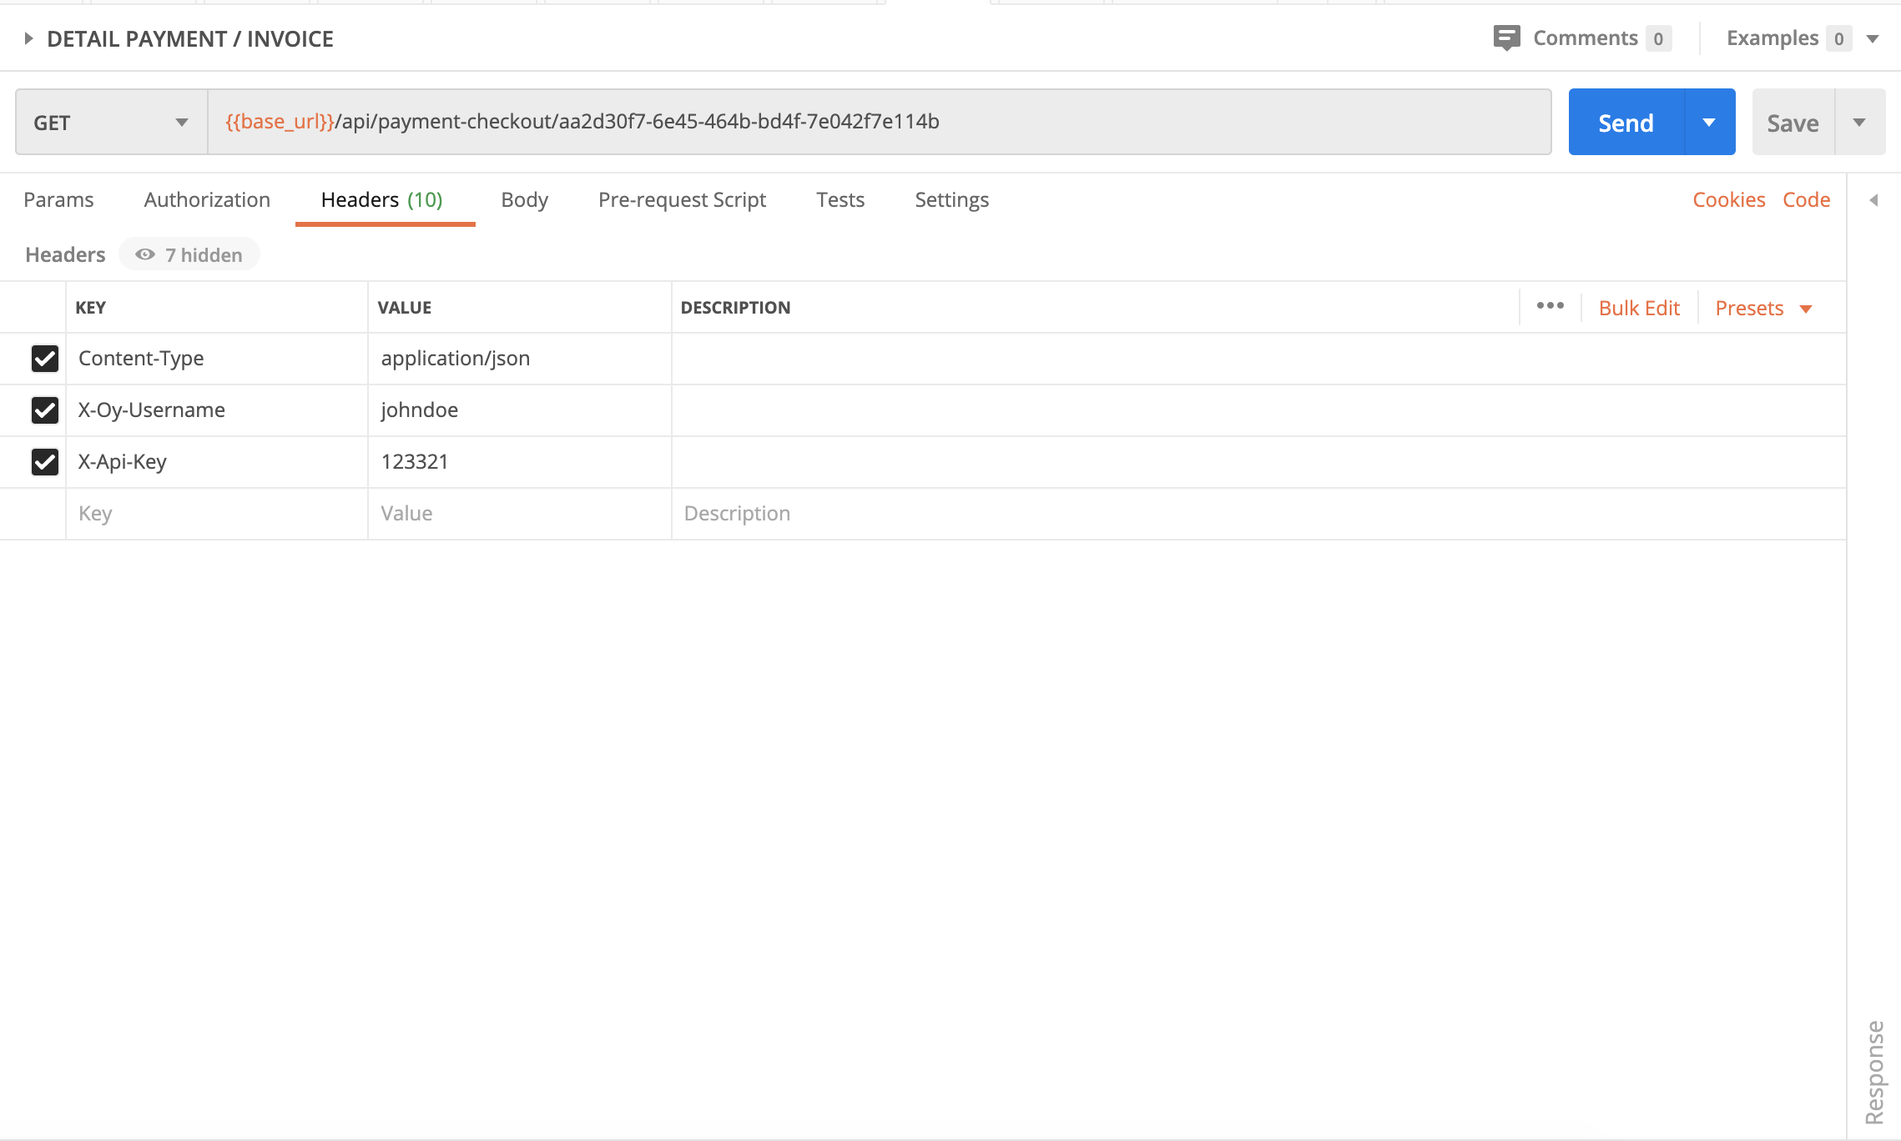
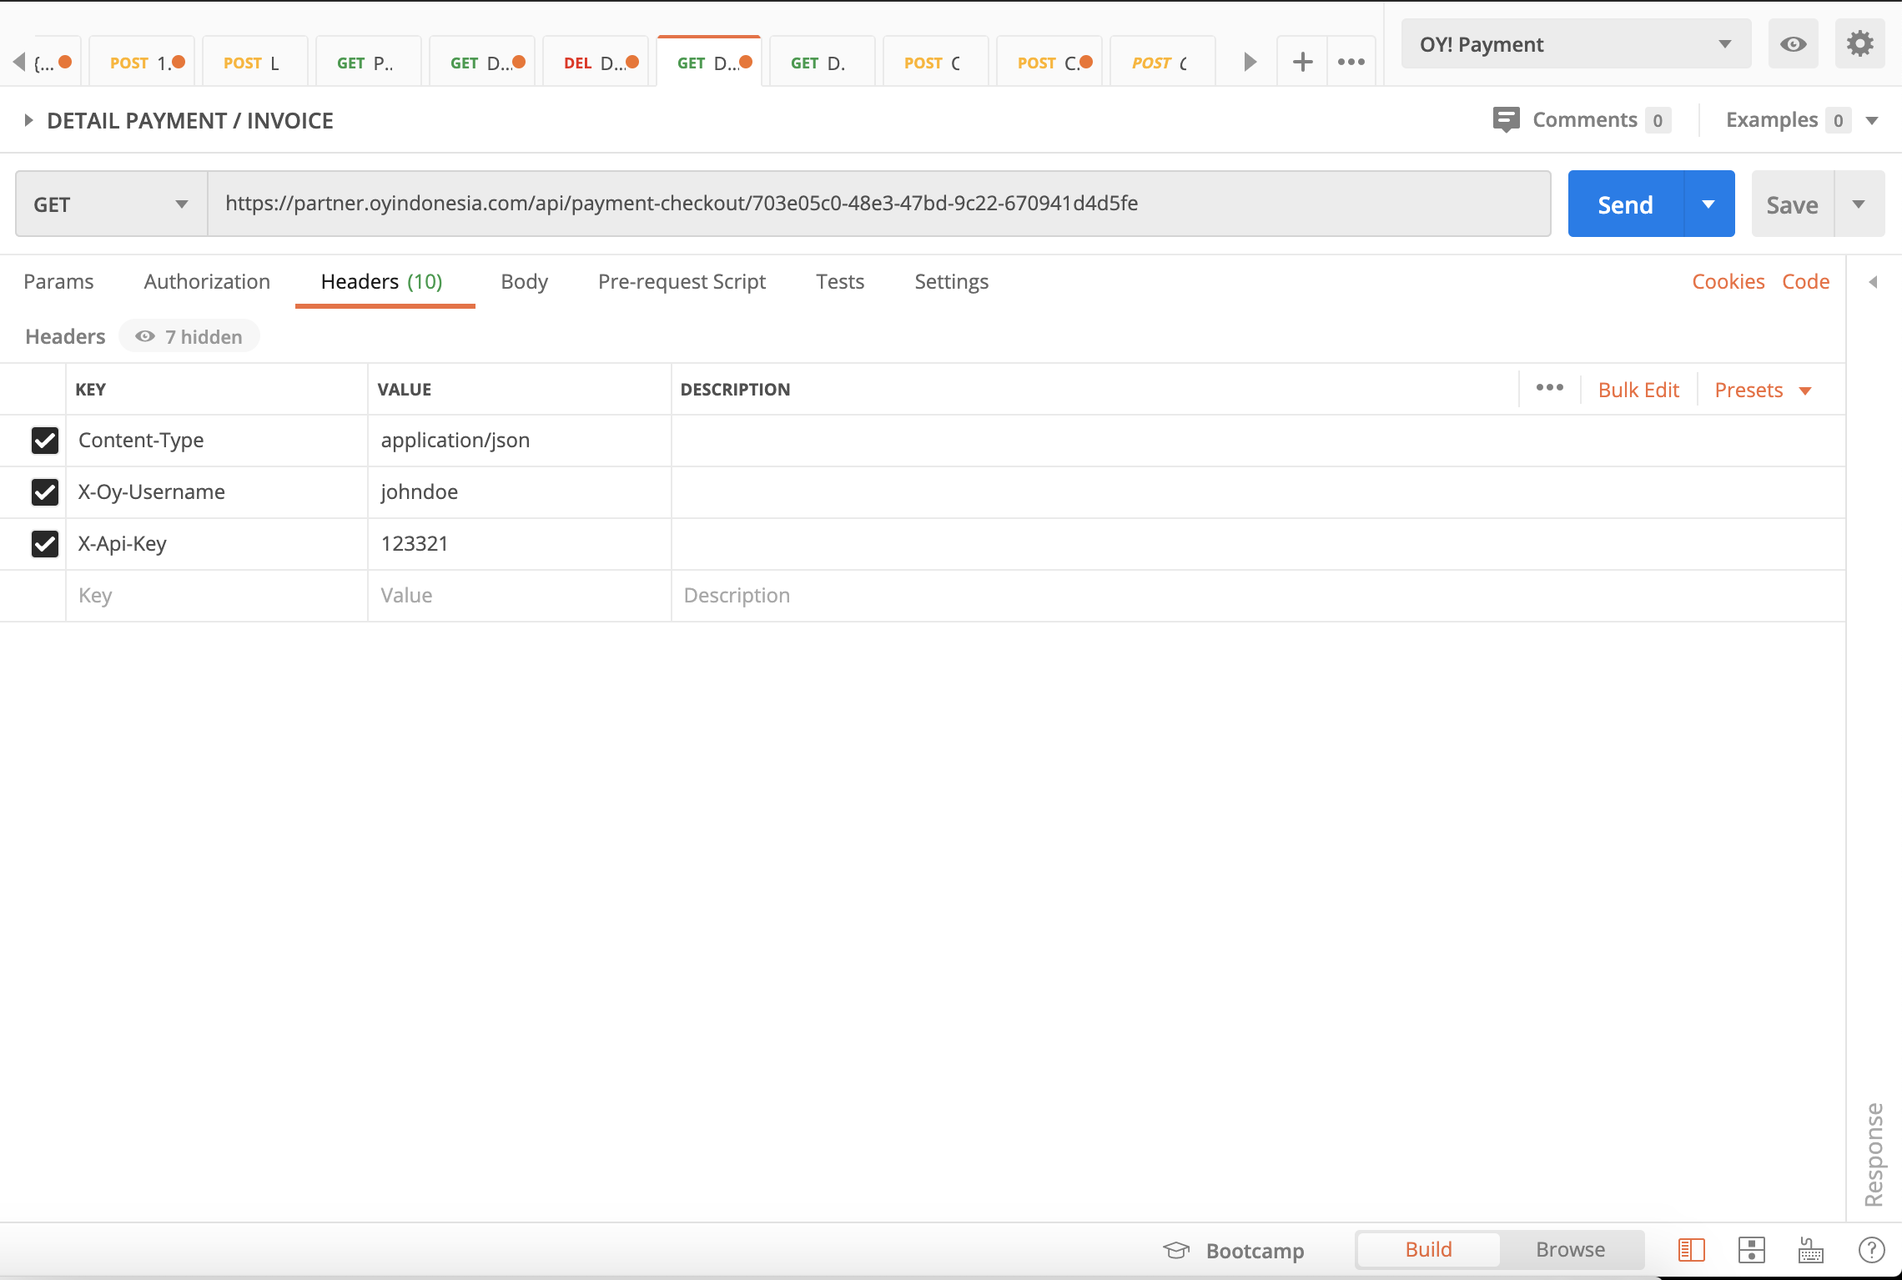
publish: Merge pull request #22 from oyindonesia/improvement/checkout-delete
generated from commit 489f5fceb19f34cfb2fa3a68a2bbd60b8c023e9b

diff --git a/index.html b/index.html
@@ -3859,26 +3859,34 @@ Use this API to get beneficiary account details.</p>
 </blockquote>
 <div class="highlight"><pre class="highlight json tab-json"><code><span class="p">{</span><span class="w">
     </span><span class="nl">"data"</span><span class="p">:</span><span class="w"> </span><span class="p">{</span><span class="w">
-        </span><span class="nl">"partnerTxId"</span><span class="p">:</span><span class="w"> </span><span class="s2">"partner tx id"</span><span class="p">,</span><span class="w">
-        </span><span class="nl">"paymentLinkId"</span><span class="p">:</span><span class="w"> </span><span class="s2">"35281815-4784-4f55-9a61-090f5c17a191"</span><span class="p">,</span><span class="w">
-        </span><span class="nl">"amount"</span><span class="p">:</span><span class="w"> </span><span class="mi">30000</span><span class="p">,</span><span class="w">
-        </span><span class="nl">"username"</span><span class="p">:</span><span class="w"> </span><span class="s2">"username"</span><span class="p">,</span><span class="w">
-        </span><span class="nl">"senderName"</span><span class="p">:</span><span class="w"> </span><span class="s2">"Sender Name"</span><span class="p">,</span><span class="w">
-        </span><span class="nl">"senderPhoneNumber"</span><span class="p">:</span><span class="w"> </span><span class="s2">"sender phone number"</span><span class="p">,</span><span class="w">
-        </span><span class="nl">"senderNotes"</span><span class="p">:</span><span class="w"> </span><span class="s2">"sender note"</span><span class="p">,</span><span class="w">
-        </span><span class="nl">"status"</span><span class="p">:</span><span class="w"> </span><span class="s2">"status"</span><span class="p">,</span><span class="w">
-        </span><span class="nl">"txRefNumber"</span><span class="p">:</span><span class="w"> </span><span class="s2">"tx_ref_number"</span><span class="p">,</span><span class="w">
-        </span><span class="nl">"description"</span><span class="p">:</span><span class="w"> </span><span class="s2">"description"</span><span class="p">,</span><span class="w">
+        </span><span class="nl">"partnerTxId"</span><span class="p">:</span><span class="w"> </span><span class="s2">"abc10"</span><span class="p">,</span><span class="w">
+        </span><span class="nl">"paymentLinkId"</span><span class="p">:</span><span class="w"> </span><span class="s2">"703e05c0-48e3-47bd-9c22-670941d4d5fe"</span><span class="p">,</span><span class="w">
+        </span><span class="nl">"amount"</span><span class="p">:</span><span class="w"> </span><span class="mi">15000</span><span class="p">,</span><span class="w">
+        </span><span class="nl">"username"</span><span class="p">:</span><span class="w"> </span><span class="s2">"justkhals"</span><span class="p">,</span><span class="w">
+        </span><span class="nl">"senderName"</span><span class="p">:</span><span class="w"> </span><span class="s2">"Jokowi"</span><span class="p">,</span><span class="w">
+        </span><span class="nl">"senderPhoneNumber"</span><span class="p">:</span><span class="w"> </span><span class="kc">null</span><span class="p">,</span><span class="w">
+        </span><span class="nl">"senderNotes"</span><span class="p">:</span><span class="w"> </span><span class="kc">null</span><span class="p">,</span><span class="w">
+        </span><span class="nl">"status"</span><span class="p">:</span><span class="w"> </span><span class="s2">"CREATED"</span><span class="p">,</span><span class="w">
+        </span><span class="nl">"txRefNumber"</span><span class="p">:</span><span class="w"> </span><span class="kc">null</span><span class="p">,</span><span class="w">
+        </span><span class="nl">"description"</span><span class="p">:</span><span class="w"> </span><span class="s2">"testdesc"</span><span class="p">,</span><span class="w">
         </span><span class="nl">"isOpen"</span><span class="p">:</span><span class="w"> </span><span class="kc">true</span><span class="p">,</span><span class="w">
-        </span><span class="nl">"step"</span><span class="p">:</span><span class="w"> </span><span class="s2">"step"</span><span class="p">,</span><span class="w">
-        </span><span class="nl">"notes"</span><span class="p">:</span><span class="w"> </span><span class="s2">"notes"</span><span class="p">,</span><span class="w">
-        </span><span class="nl">"phoneNumber"</span><span class="p">:</span><span class="w"> </span><span class="s2">"phone number"</span><span class="p">,</span><span class="w">
-        </span><span class="nl">"email"</span><span class="p">:</span><span class="w"> </span><span class="s2">"email"</span><span class="p">,</span><span class="w">
+        </span><span class="nl">"step"</span><span class="p">:</span><span class="w"> </span><span class="s2">"input-amount"</span><span class="p">,</span><span class="w">
+        </span><span class="nl">"notes"</span><span class="p">:</span><span class="w"> </span><span class="s2">"testnote"</span><span class="p">,</span><span class="w">
+        </span><span class="nl">"phoneNumber"</span><span class="p">:</span><span class="w"> </span><span class="s2">"085248395555"</span><span class="p">,</span><span class="w">
+        </span><span class="nl">"email"</span><span class="p">:</span><span class="w"> </span><span class="s2">"maskalgrr@gmail.com"</span><span class="p">,</span><span class="w">
         </span><span class="nl">"includeAdminFee"</span><span class="p">:</span><span class="w"> </span><span class="kc">false</span><span class="p">,</span><span class="w">
         </span><span class="nl">"listDisabledPaymentMethods"</span><span class="p">:</span><span class="w"> </span><span class="s2">""</span><span class="p">,</span><span class="w">
-        </span><span class="nl">"listEnabledBanks"</span><span class="p">:</span><span class="w"> </span><span class="s2">""</span><span class="p">,</span><span class="w">
-        </span><span class="nl">"expirationTime"</span><span class="p">:</span><span class="w"> </span><span class="mi">1595679313000</span><span class="p">,</span><span class="w">
-        </span><span class="nl">"invoiceData"</span><span class="p">:</span><span class="w"> </span><span class="kc">null</span><span class="w">
+        </span><span class="nl">"listEnabledBanks"</span><span class="p">:</span><span class="w"> </span><span class="s2">"008"</span><span class="p">,</span><span class="w">
+        </span><span class="nl">"expirationTime"</span><span class="p">:</span><span class="w"> </span><span class="mi">1600016400000</span><span class="p">,</span><span class="w">
+        </span><span class="nl">"invoiceData"</span><span class="p">:</span><span class="w"> </span><span class="p">{</span><span class="w">
+            </span><span class="nl">"fullName"</span><span class="p">:</span><span class="w"> </span><span class="s2">"John Dooe"</span><span class="p">,</span><span class="w">
+            </span><span class="nl">"isVaLifetime"</span><span class="p">:</span><span class="w"> </span><span class="kc">false</span><span class="p">,</span><span class="w">
+            </span><span class="nl">"isScheduled"</span><span class="p">:</span><span class="w"> </span><span class="kc">false</span><span class="p">,</span><span class="w">
+            </span><span class="nl">"recurringStartDate"</span><span class="p">:</span><span class="w"> </span><span class="kc">null</span><span class="p">,</span><span class="w">
+            </span><span class="nl">"recurringEndDate"</span><span class="p">:</span><span class="w"> </span><span class="kc">null</span><span class="p">,</span><span class="w">
+            </span><span class="nl">"recurringFrequency"</span><span class="p">:</span><span class="w"> </span><span class="kc">null</span><span class="p">,</span><span class="w">
+            </span><span class="nl">"invoiceItems"</span><span class="p">:</span><span class="w"> </span><span class="s2">"[{</span><span class="se">\"</span><span class="s2">item</span><span class="se">\"</span><span class="s2">: </span><span class="se">\"</span><span class="s2">AK 47</span><span class="se">\"</span><span class="s2">, </span><span class="se">\"</span><span class="s2">quantity</span><span class="se">\"</span><span class="s2">: 2000, </span><span class="se">\"</span><span class="s2">description</span><span class="se">\"</span><span class="s2">: </span><span class="se">\"</span><span class="s2">Untuk Kemanan Negara</span><span class="se">\"</span><span class="s2">, </span><span class="se">\"</span><span class="s2">price_per_item</span><span class="se">\"</span><span class="s2">: 2250000, </span><span class="se">\"</span><span class="s2">date_of_purchase</span><span class="se">\"</span><span class="s2">: 1590969600000}]"</span><span class="w">
+        </span><span class="p">}</span><span class="w">
     </span><span class="p">},</span><span class="w">
     </span><span class="nl">"message"</span><span class="p">:</span><span class="w"> </span><span class="s2">"return payment checkout data"</span><span class="p">,</span><span class="w">
     </span><span class="nl">"status"</span><span class="p">:</span><span class="w"> </span><span class="kc">true</span><span class="w">
@@ -3899,18 +3907,188 @@ Use this API to get beneficiary account details.</p>
 <td>-</td>
 </tr>
 </tbody></table>
+<h3 id='payment-response-parameters'>Payment Response Parameters</h3>
+<table><thead>
+<tr>
+<th>Parameters</th>
+<th>Type</th>
+<th>Description</th>
+<th>Example Value</th>
+</tr>
+</thead><tbody>
+<tr>
+<td>partnerTxId</td>
+<td>String</td>
+<td>Payment Partner Tx Id</td>
+<td>abc123</td>
+</tr>
+<tr>
+<td>paymentLinkId</td>
+<td>String</td>
+<td>Payment Link Id</td>
+<td>35281815-4784-4f55-9a61-090f5c17a191</td>
+</tr>
+<tr>
+<td>amount</td>
+<td>Integer</td>
+<td>Payment Amount</td>
+<td>30000</td>
+</tr>
+<tr>
+<td>username</td>
+<td>String</td>
+<td>Partner Username</td>
+<td>johndoe</td>
+</tr>
+<tr>
+<td>senderName</td>
+<td>String</td>
+<td>Payment Sender Name</td>
+<td>Budi</td>
+</tr>
+<tr>
+<td>senderPhoneNumber</td>
+<td>String</td>
+<td>Payment Sender Phone Number</td>
+<td>081234567890</td>
+</tr>
+<tr>
+<td>senderNotes</td>
+<td>String</td>
+<td>Payment Notes / Subject</td>
+<td>Cicilan Mobil - 5</td>
+</tr>
+<tr>
+<td>status</td>
+<td>String</td>
+<td>Payment Status</td>
+<td>COMPLETE</td>
+</tr>
+<tr>
+<td>txRefNumber</td>
+<td>String</td>
+<td>Payment Transaction Reference Number</td>
+<td>GTY67JJU</td>
+</tr>
+<tr>
+<td>description</td>
+<td>String</td>
+<td>Payment Description</td>
+<td>Tagihan Cicilan Mobil</td>
+</tr>
+<tr>
+<td>isOpen</td>
+<td>Boolean</td>
+<td>Payment Editable Amount Capability</td>
+<td>true</td>
+</tr>
+<tr>
+<td>step</td>
+<td>String</td>
+<td>Partner Step State</td>
+<td>CREATED</td>
+</tr>
+<tr>
+<td>notes</td>
+<td>String</td>
+<td>Payment Notes / Subject</td>
+<td>Cicilan Mobil - 5</td>
+</tr>
+<tr>
+<td>email</td>
+<td>String</td>
+<td>Payment Sender Email</td>
+<td>johndoe@gmail.com</td>
+</tr>
+<tr>
+<td>senderPhoneNumber</td>
+<td>String</td>
+<td>Payment Sender Phone Number</td>
+<td>081234567890</td>
+</tr>
+<tr>
+<td>includeAdminFee</td>
+<td>Boolean</td>
+<td>Admin fee bills destination between partner or user</td>
+<td>true</td>
+</tr>
+<tr>
+<td>listDisabledPaymentMethods</td>
+<td>String</td>
+<td>List Of Disable Payment Method **(VA</td>
+<td>DEBIT_CARD</td>
+</tr>
+<tr>
+<td>listEnabledBanks</td>
+<td>String</td>
+<td>Payment Method List Enable Bank for VA Payment Method: &quot;002&quot; (BRI), &quot;008&quot; (Mandiri), &quot;009&quot; (BNI), &quot;013&quot; (Permata), &quot;022&quot; (CIMB).</td>
+<td>002,008</td>
+</tr>
+<tr>
+<td>expirationTime</td>
+<td>String</td>
+<td>Payment Exporation Date and Time</td>
+<td>&quot;2020-08-12 00:00:00&quot;</td>
+</tr>
+<tr>
+<td>invoiceData</td>
+<td>Invoice</td>
+<td>Data For Invoice Payment will be null</td>
+<td>CREDIT_CARD)**</td>
+</tr>
+</tbody></table>
+<h3 id='invoice-response-parameters'>Invoice Response Parameters</h3>
+<table><thead>
+<tr>
+<th>Parameters</th>
+<th>Type</th>
+<th>Description</th>
+<th>Example Value</th>
+</tr>
+</thead><tbody>
+<tr>
+<td>fullName</td>
+<td>String</td>
+<td>Invoice Payer Name</td>
+<td>John Doe</td>
+</tr>
+<tr>
+<td>isVaLifetime</td>
+<td>String</td>
+<td>Invoice static VA status</td>
+<td>true</td>
+</tr>
+<tr>
+<td>isScheduled</td>
+<td>Boolean</td>
+<td>Invoice Scheduled status</td>
+<td>true</td>
+</tr>
+<tr>
+<td>invoiceItems</td>
+<td>String JSON</td>
+<td>Invoice Item List JSON</td>
+<td>&quot;[{\&quot;item\&quot;: \&quot;AK 47\&quot;, \&quot;quantity\&quot;: 2000, \&quot;description\&quot;: \&quot;Untuk Kemanan Negara\&quot;, \&quot;price_per_item\&quot;: 2250000, \&quot;date_of_purchase\&quot;: 1590969600000}]&quot;</td>
+</tr>
+</tbody></table>
 <h2 id='postman'>POSTMAN</h2>
-<p>Postman is an of <strong>free</strong> web service testing which provide all web service testing schema. Its <strong>easy</strong>, <strong>fast</strong> and <strong>solid</strong> software for developer to learn and maintain web service contract both from provider and consumer. Many developer use Postman as part of their web service contract testing and reference because Postman has great User Experience.</p>
+<p>Postman is a free web testing service that provides an easy, fast, and solid software for developers to learn and maintain a web service contract from both the provider and consumer. As such, Postman has become a widely used tool for contract testing and reference due to its User Experience. </p>
 
-<p>Postman have collection archiving tech to make us easy to store and sharing to other people to keep data consistency. We provide our Postman Collection to our partner for increase their development and knowledge learning speed. You can get how to install Postman in <a href="https://www.postman.com/downloads/">here</a></p>
-<h3 id='import-oy-fund-acceptance-postman-collection-to-postman'>Import OY! Fund Acceptance Postman Collection to Postman</h3>
+<p>To streamline development and integration with OY!, we have created a Postman Collection at your disposal. Get started by installing Postman here.</p>
+
+<p>Prerequisites: You must have received an authorization <strong>Username</strong> and <strong>API Key</strong> from us to access our feature. Contact us at <a href="partner@oyindonesia.com">partner@oyindonesia.com</a> to receive your authorization information now. </p>
+<h3 id='import-oy-payment-checkout-postman-collection-to-postman'>Import OY! Payment Checkout Postman Collection to Postman</h3>
 <ul>
-<li>Open Postman. select Import button on the upper left application</li>
-<li>Choose Link Tab and set url value with this <a href="https://www.getpostman.com/collections/36bb9f0160c5e40c4893">URL</a></li>
-<li>Collection has been imported named <strong>Payment Checkout Postman</strong> that contains all Fund Acceptance APIs.</li>
+<li>Locate the “Import” button at the upper left corner of your Postman screen</li>
+<li>On the pop-up menu, navigate to the “Link” tab and enter this <a href="https://www.getpostman.com/collections/36bb9f0160c5e40c4893">URL</a>, click “Continue”</li>
 </ul>
 
 <p><img src="images/images/postman_checkout_import_link.png" alt="import" /></p>
+
+<ul>
+<li>A notification on the bottom left corner of your dashboard should appear, indicating that you have successfully imported the collection</li>
+<li>Locate the “Collections” tab on the left menu bar of your Postman dashboard to find that a collection named “Payment Checkout Postman” has been added</li>
+</ul>
 <h3 id='api-authorization'>API Authorization</h3>
 <p>You must provide your authorization information to us to access our feature. Our authorization consist of <strong>Username</strong> and <strong>API Key</strong>. Contact Us to obtain your API Key. After you get your API Key follow this step:</p>
 
@@ -3921,38 +4099,51 @@ Use this API to get beneficiary account details.</p>
 </ul>
 
 <p><img src="images/images/postman_checkout_header.png" alt="header" /></p>
-<h3 id='postman-global-variable-environment'>Postman Global Variable Environment</h3>
-<p>You can reuse all authorization header confguration with Postman Variable Environment. It will save your time to provide us authorization information. Just follow this step:</p>
+<h3 id='create-a-postman-variable-environment'>Create a Postman Variable Environment</h3>
+<p>The Postman Variable Environment provides you with the capabilities to save authorization configurations. You can use these saved configurations for all your Postman Requests.</p>
 
 <ul>
-<li>Select gear icon in the upper right corner.</li>
+<li>Locate the gear icon at the upper right corner of your Postman screen</li>
+<li>On the pop-up menu, click “Add” and give an Environment name. For example, “OY! Payment”</li>
 </ul>
 
 <p><img src="images/images/postman_checkout_add_environtment.png" alt="header" /></p>
 
 <ul>
-<li>Give Environment name. Example OY! Payment.</li>
-<li>Add <strong>base_url</strong> in Variable column and set your <strong>https://partner.oyindonesia.com</strong> value in Current Value column</li>
-<li>Add <strong>username</strong> in Variable column and set your <strong>username</strong> value in Current Value column</li>
-<li>Add <strong>apiKey</strong> in Variable column and set your <strong>API Key</strong> value in Current Value column</li>
+<li>Add <strong>base_url</strong> in the Variable column and set the value to <strong>https://partner.oyindonesia.com</strong> in Current Value column</li>
+<li>Add <strong>username</strong> in the Variable column and set the value to your <strong>username</strong> in the Current Value column</li>
+<li>Add <strong>apiKey</strong> in the Variable column and set the value to your <strong>API Key</strong> value in the Current Value column</li>
+<li>Click “Add” to save. You can later re-visit and update these values.</li>
 </ul>
 
 <p><img src="images/images/postman_checkout_setup_environtment.png" alt="header" /></p>
 
 <ul>
-<li>Add / Update button to save</li>
-<li>Select Environment Management on upper Right corner. Left of <strong>eye</strong> icon.</li>
-<li>Choose on of our API and navigate to Header tab. Change your <strong>username</strong> value to <strong>{{username}}</strong></li>
-<li>Change your <strong>API Key value</strong> to <strong>{{api_key}}</strong></li>
+<li>To utilize the created environment, locate the environment management menu at the upper left corner of your screen. It should be to the left of the eye icon. </li>
+<li>In the drop down menu, choose the environment that you have just created. </li>
+</ul>
+
+<p><img src="images/images/postman_checkout_choose_environtment.png" alt="header" /></p>
+
+<p>You just set your authorization value header with environment variable which already configured.</p>
+<h3 id='test-one-of-our-api-calls'>Test one of our API Calls</h3>
+<ul>
+<li>On the left hand side of your screen, navigate to the Collections tab. Select one of our API from our Payment Checkout Postman collection to test. </li>
+<li>The screenshot below uses Detail &gt; Get Detail Payment/Invoice as an example</li>
 </ul>
 
 <p><img src="images/images/postman_checkout_finish_environtment.png" alt="header" /></p>
 
-<p>You just set your authorization value header with environment variable which already configured.</p>
-<h3 id='make-your-first-api-call'>Make Your First API Call</h3>
-<p>Time to try!. Click Send Button which colored blue. Check your response window you will get your payment information response. Once you get your payment information correctly thats sign you are on the right track. You can do same thing with other API. Feel free to contact us if you have a problem to use our Postman Collection.</p>
+<ul>
+<li>Replace the <strong>X-Oy-Username</strong> key-value pair to <strong>{{username}}</strong> as the value </li>
+<li>Replace the <strong>X-Api-Key* key-value pair to **{{api_key}}</strong> as the value</li>
+</ul>
 
 <p><img src="images/images/postman_checkout_detail.png" alt="header" /></p>
+
+<ul>
+<li>Click the blue “Send” button and check your response window to retrieve your payment information response.</li>
+</ul>
 
       </div>
       <div class="dark-box">
